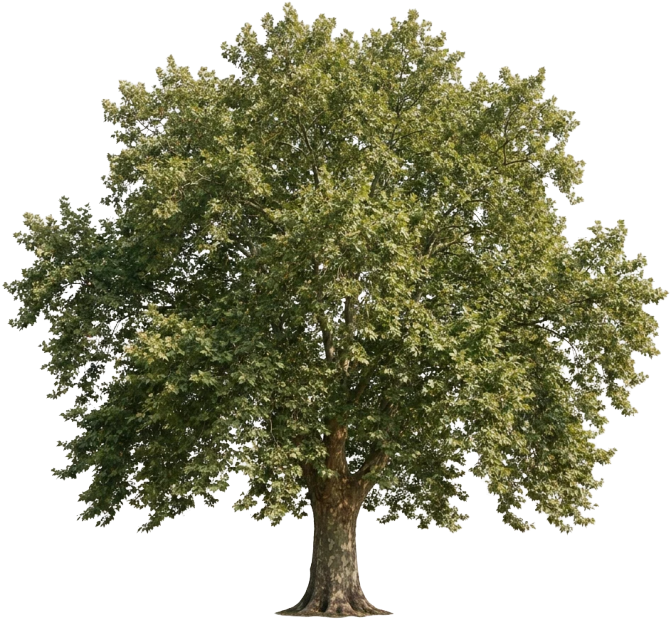
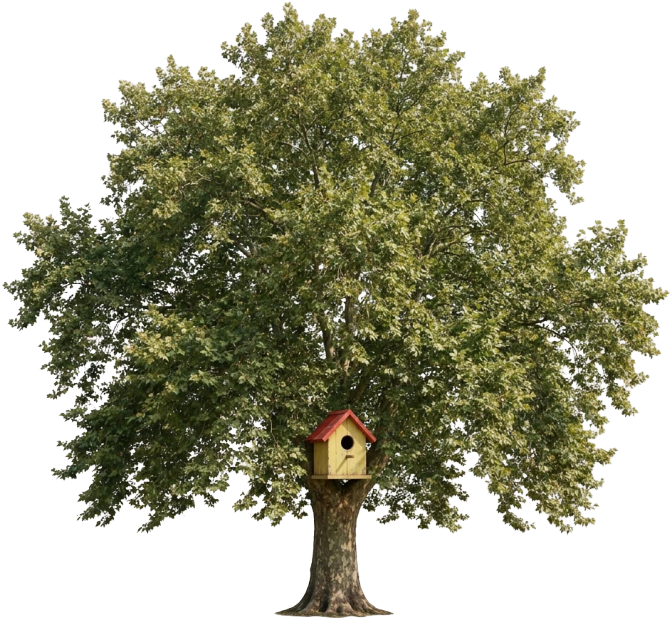
Use the photo tree with a birdhouse in its fork as the thing to duck
- The tree (now with a birdhouse in its fork) stands in a front yard
  behind the picket fence, as scenery
- The birdhouse is lifted from the same photo onto its own layer and
  drawn again, a size larger, in front of Bill at head height, exactly
  over the one in the tree; only the birdhouse can hit him
- tools/make_cutouts.py records where the birdhouse sits relative to the
  foot of the trunk, so the two layers line up at any tree size
- Prompt sheet: level 1's images are complete again

Claude-Session: https://claude.ai/code/session_019b7mfLR7ticr216Qk7ssWT

diff --git a/src/scenes/GameScene.ts b/src/scenes/GameScene.ts
@@ -1,6 +1,7 @@
 import Phaser from 'phaser';
 import { BILL, DEPTH, H, HEAD_SRC_H, INK, LANE, MAX_W, SCORE, SPEED, STREET, SWING, TEX, view } from '../config';
 import { BLEED } from '../art/finish';
+import { TREE } from '../art/photos';
 import { ART, img } from '../art/sticker';
 import { sound } from '../audio/sound';
 import { HIGHWAY_JAM, LevelDef, Move, Spawn, countHeads, levelById } from '../data/levels';
@@ -42,9 +43,11 @@ interface Paper {
 
 /** Where the things Bill ducks stand: on the median, or on the far pavement. */
 const SIGN_BASE_Y = 398;
-/** The street tree stands at the kerb; the birdhouse sits in its fork, this far up. */
-const TREE_BASE_Y = STREET.kerbY + 2;
-const BIRDHOUSE_UP = 118;
+/** The tree stands in a front yard, its foot behind the picket fence. The
+ *  birdhouse sits in its fork: this far up, and this far across from the trunk. */
+const TREE_BASE_Y = 300;
+const BIRDHOUSE_UP = TREE.h * TREE.birdUp;
+const BIRDHOUSE_DX = TREE.h * TREE.birdAcross;
 const HIT_WORDS = ['bonk', 'whack', 'thwack', 'bop', 'pow'];
 const DELIVERY_WORDS = ['delivered', 'nicetoss', 'inthebox'];
 
@@ -675,11 +678,11 @@ export class GameScene extends Phaser.Scene {
         if (remaining > (view.W + (birdhouse ? 250 : 110) - head) / speed) continue;
         const x = head + speed * remaining;
         if (birdhouse) {
-          // The tree stands at the kerb behind everything on the pavement. The
-          // birdhouse in its fork is at head height and drawn in front of Bill,
-          // so it is plainly the thing he has to get his head under.
+          // The tree stands in a front yard, behind the fence. The birdhouse in
+          // its fork is at head height and drawn again in front of Bill, so it
+          // is plainly the thing he has to get his head under.
           const back = this.textures.exists('tree')
-            ? img(this, x, TREE_BASE_Y, 'tree').setDepth(DEPTH.farCars)
+            ? img(this, x - BIRDHOUSE_DX, TREE_BASE_Y, 'tree').setDepth(DEPTH.far + 2)
             : undefined;
           const im = img(this, x, TREE_BASE_Y - BIRDHOUSE_UP, 'birdhouse').setDepth(DEPTH.billCar + 1);
           this.signs.push({ im, x, half: 34, done: false, back, kick: 0, kickT: 0 });
@@ -834,7 +837,7 @@ export class GameScene extends Phaser.Scene {
       const s = this.signs[i];
       s.x -= scroll;
       s.im.x = s.x;
-      if (s.back) s.back.x = s.x;
+      if (s.back) s.back.x = s.x - BIRDHOUSE_DX;
       if (s.kick > 0.002) {
         // a birdhouse rattles on its perch after it has clocked him
         s.kick *= Math.exp(-dt * 4);

diff --git a/src/art/photos.ts b/src/art/photos.ts
@@ -64,6 +64,11 @@ const KID_SCALE = 0.5;
 /** Puts the middle of a mailbox 68 pixels above the kerb (MAILBOX_UP in NoodleNeck.ts). */
 const MAILBOX_SCALE = 0.352;
 
+/** The tree the birdhouse sits in: how tall it is drawn, and where the
+ *  birdhouse is in the photo, measured from the foot of the trunk as fractions
+ *  of the tree's height (from tools/make_cutouts.py). */
+export const TREE = { h: 341, birdUp: 0.2227, birdAcross: 0.0115 };
+
 const WORDS = ['bonk', 'whack', 'thwack', 'pow', 'bop', 'perfect'];
 
 const PIECES: Piece[] = [
@@ -87,15 +92,18 @@ const PIECES: Piece[] = [
   { key: 'kid_swing', file: 'kid-swing.png', scale: KID_SCALE, anchor: [0.499, 0.993] },
   { key: 'kid_duck', file: 'kid-duck.png', scale: KID_SCALE, anchor: [0.499, 0.993] },
   { key: 'paper_roll', file: 'paper-roll.png', w: 30, border: 1.4 },
+  // The front-yard tree with a birdhouse in its fork, pinned where its trunk
+  // meets the ground, and the birdhouse again on its own: it is drawn a size
+  // larger in front of Bill, over the one in the tree, as the thing to duck.
+  { key: 'tree', file: 'tree.png', h: TREE.h, border: 2, anchor: [0.496, 0.997] },
+  { key: 'birdhouse', file: 'birdhouse.png', w: 62, border: 2, anchor: [0.5, 0.98] },
   // the street: mailboxes on posts, waiting and with a paper delivered, each
   // pinned where its post meets the ground (anchors from tools/make_cutouts.py)
   { key: 'mailbox0', file: 'mailbox-silver.png', scale: MAILBOX_SCALE, border: 2, anchor: [0.519, 0.972] },
   { key: 'mailbox0_hit', file: 'mailbox-silver-hit.png', scale: MAILBOX_SCALE, border: 2, anchor: [0.603, 0.973] },
   { key: 'mailbox1', file: 'mailbox-red.png', scale: MAILBOX_SCALE, border: 2, anchor: [0.516, 0.968] },
   { key: 'mailbox1_hit', file: 'mailbox-red-hit.png', scale: MAILBOX_SCALE, border: 2, anchor: [0.601, 0.97] },
-  // the mailman, standing on the same spot in both photos, and the big street
-  // tree the birdhouse sits in (pinned where its trunk meets the ground)
-  { key: 'tree', file: 'tree.png', h: 420, border: 2, anchor: [0.497, 0.985] },
+  // the mailman, standing on the same spot in both photos
   { key: 'mailman', file: 'mailman.png', h: 138, border: 2, anchor: [0.557, 0.985] },
   { key: 'mailman_mad', file: 'mailman-mad.png', h: 136, border: 2, anchor: [0.49, 0.985] },
 

diff --git a/tools/make_cutouts.py b/tools/make_cutouts.py
@@ -334,19 +334,37 @@ def mailman():
 
 
 def tree():
-    """The street tree Bill has to duck under. Loose leaves floating clear of
-    the crown are dropped; prints where the trunk meets the ground."""
-    cut = load("W-tree-cutout.png").copy()
+    """The street tree with a birdhouse sitting in its fork. The tree (birdhouse
+    and all) is the backdrop; the birdhouse is also saved on its own, to be
+    drawn again in front of Bill. Prints where the trunk meets the ground, and
+    where the birdhouse sits relative to that, as fractions of the tree's height."""
+    cut = load("Z-tree-birdhouse-cutout.png").copy()
     n, lab, st, _ = cv2.connectedComponentsWithStats((cut[..., 3] > 0.3).astype(np.uint8), 8)
     biggest = 1 + int(np.argmax(st[1:, cv2.CC_STAT_AREA]))
     near = cv2.dilate((lab == biggest).astype(np.uint8), np.ones((5, 5), np.uint8)).astype(bool)
-    cut[~near] = 0
-    piece = trim(cut)
+    cut[~near] = 0   # loose leaves floating clear of the crown
+
+    m = load("Z-tree-birdhouse-mask.png")
+    sel = (m[..., 3] if m[..., 3].std() > 0.01 else m[..., :3].mean(axis=2)) > 0.5
+    bird = cut.copy()
+    bird[..., 3] = np.minimum(bird[..., 3], cv2.GaussianBlur(sel.astype(np.float32), (0, 0), 0.8))
+    bys, bxs = np.where(sel)
+    save("birdhouse.png", bird[bys.min() - 2:bys.max() + 3, bxs.min() - 2:bxs.max() + 3])
+
+    ys, xs = np.where(cut[..., 3] > 0.08)
+    x0, x1, y0, y1 = xs.min() - 2, xs.max() + 3, ys.min() - 2, ys.max() + 3
+    solid = cut[..., 3] > 0.5
+    base_y = np.where(solid.any(axis=1))[0].max() + 1
+    base = np.where(solid[base_y - 24:base_y - 8].any(axis=0))[0]
+    base_x = (base.min() + base.max()) / 2
+    height = y1 - y0
+    print(f"  tree: trunk base at ({(base_x - x0) / (x1 - x0):.3f}, {(base_y - y0) / height:.3f});"
+          f" birdhouse sits {((bxs.min() + bxs.max()) / 2 - base_x) / height:+.4f} across and"
+          f" {(base_y - bys.max() - 1) / height:.4f} up (of the tree's height),"
+          f" {(bxs.max() - bxs.min() + 1) / height:.4f} wide")
+    piece = cut[y0:y1, x0:x1]
     k = 620 / piece.shape[0]
-    piece = cv2.resize(piece, (round(piece.shape[1] * k), 620), interpolation=cv2.INTER_AREA)
-    save("tree.png", piece)
-    base = np.where(piece[int(piece.shape[0] * 0.97):, :, 3].max(axis=0) > 0.5)[0]
-    print(f"  tree: trunk base x (fraction) {(base.min() + base.max()) / 2 / piece.shape[1]:.3f}")
+    save("tree.png", cv2.resize(piece, (round(piece.shape[1] * k), 620), interpolation=cv2.INTER_AREA))
 
 
 def fence():

diff --git a/docs/art-prompts.md b/docs/art-prompts.md
@@ -33,28 +33,15 @@ these images. The tarmac is a public-domain photo texture (`art-src/library`).
 Bill the paperboy rides his Stingray down a 1950s street tossing papers into
 mailboxes. Every image for this level is in the game: T1, T2, T3b and T4 (the
 boy on the bike: riding, winding up, throwing with an empty hand, ducking),
-U (mailboxes on posts, waiting and delivered), V (the mailman), W (the tree),
-X (the houses) and Y (the picket fence). The flying newspaper is cut from T3,
+U (mailboxes on posts, waiting and delivered), V (the mailman), X (the houses),
+Y (the picket fence) and Z (the tree with a birdhouse in it). The flying newspaper is cut from T3,
 the first version of the throwing frame. The pavement is the public-domain
 tarmac photo, bleached to concrete.
 
-The thing to duck is a birdhouse sitting in the fork of the street tree (W).
-The tree stands behind Bill; the birdhouse is drawn in front of him at head
-height. The birdhouse is a cut-paper stand-in until image Z arrives.
-
-### Z. The tree with a birdhouse in it
-
-Send this as an edit of the tree image (W), so the tree stays exactly as it is.
-
-```text
-Edit this image. Keep the tree, the framing, the lighting and the plain background exactly the same. Add one small wooden birdhouse sitting in the fork of the tree, right where the trunk splits into its main branches, resting in the fork and facing the camera. The birdhouse has a red pitched roof, pale yellow walls, a round entrance hole and a small perch under the hole. Make it about one and a half times as wide as the trunk, in full view in front of the leaves, with nothing covering it.
-```
-
-If the tree image is no longer to hand, this makes the whole thing from scratch:
-
-```text
-A photograph of a single leafy street tree, a sycamore or maple, seen straight on and complete from the base of its trunk to the top of its crown, with a wide, heavy canopy. A small wooden birdhouse sits in the fork of the tree, right where the trunk splits into its main branches, facing the camera: red pitched roof, pale yellow walls, a round entrance hole and a small perch under the hole. The birdhouse is about one and a half times as wide as the trunk and in full view in front of the leaves, with nothing covering it. Summer foliage. Soft even daylight, slightly faded 1950s Kodachrome colour. One plain flat light-grey backdrop: no ground, no shadow, no text, no border. Square image.
-```
+The thing to duck is the birdhouse sitting in the fork of the front-yard tree
+(image Z, an edit of the tree W that added the birdhouse). The tree stands
+behind the fence; the birdhouse is lifted onto its own layer and drawn again,
+a size larger, in front of Bill at head height.
 
 Note for sheets of several objects: ask for one plain backdrop behind all of
 them. Objects each sitting on their own card or panel have to be cut apart by
